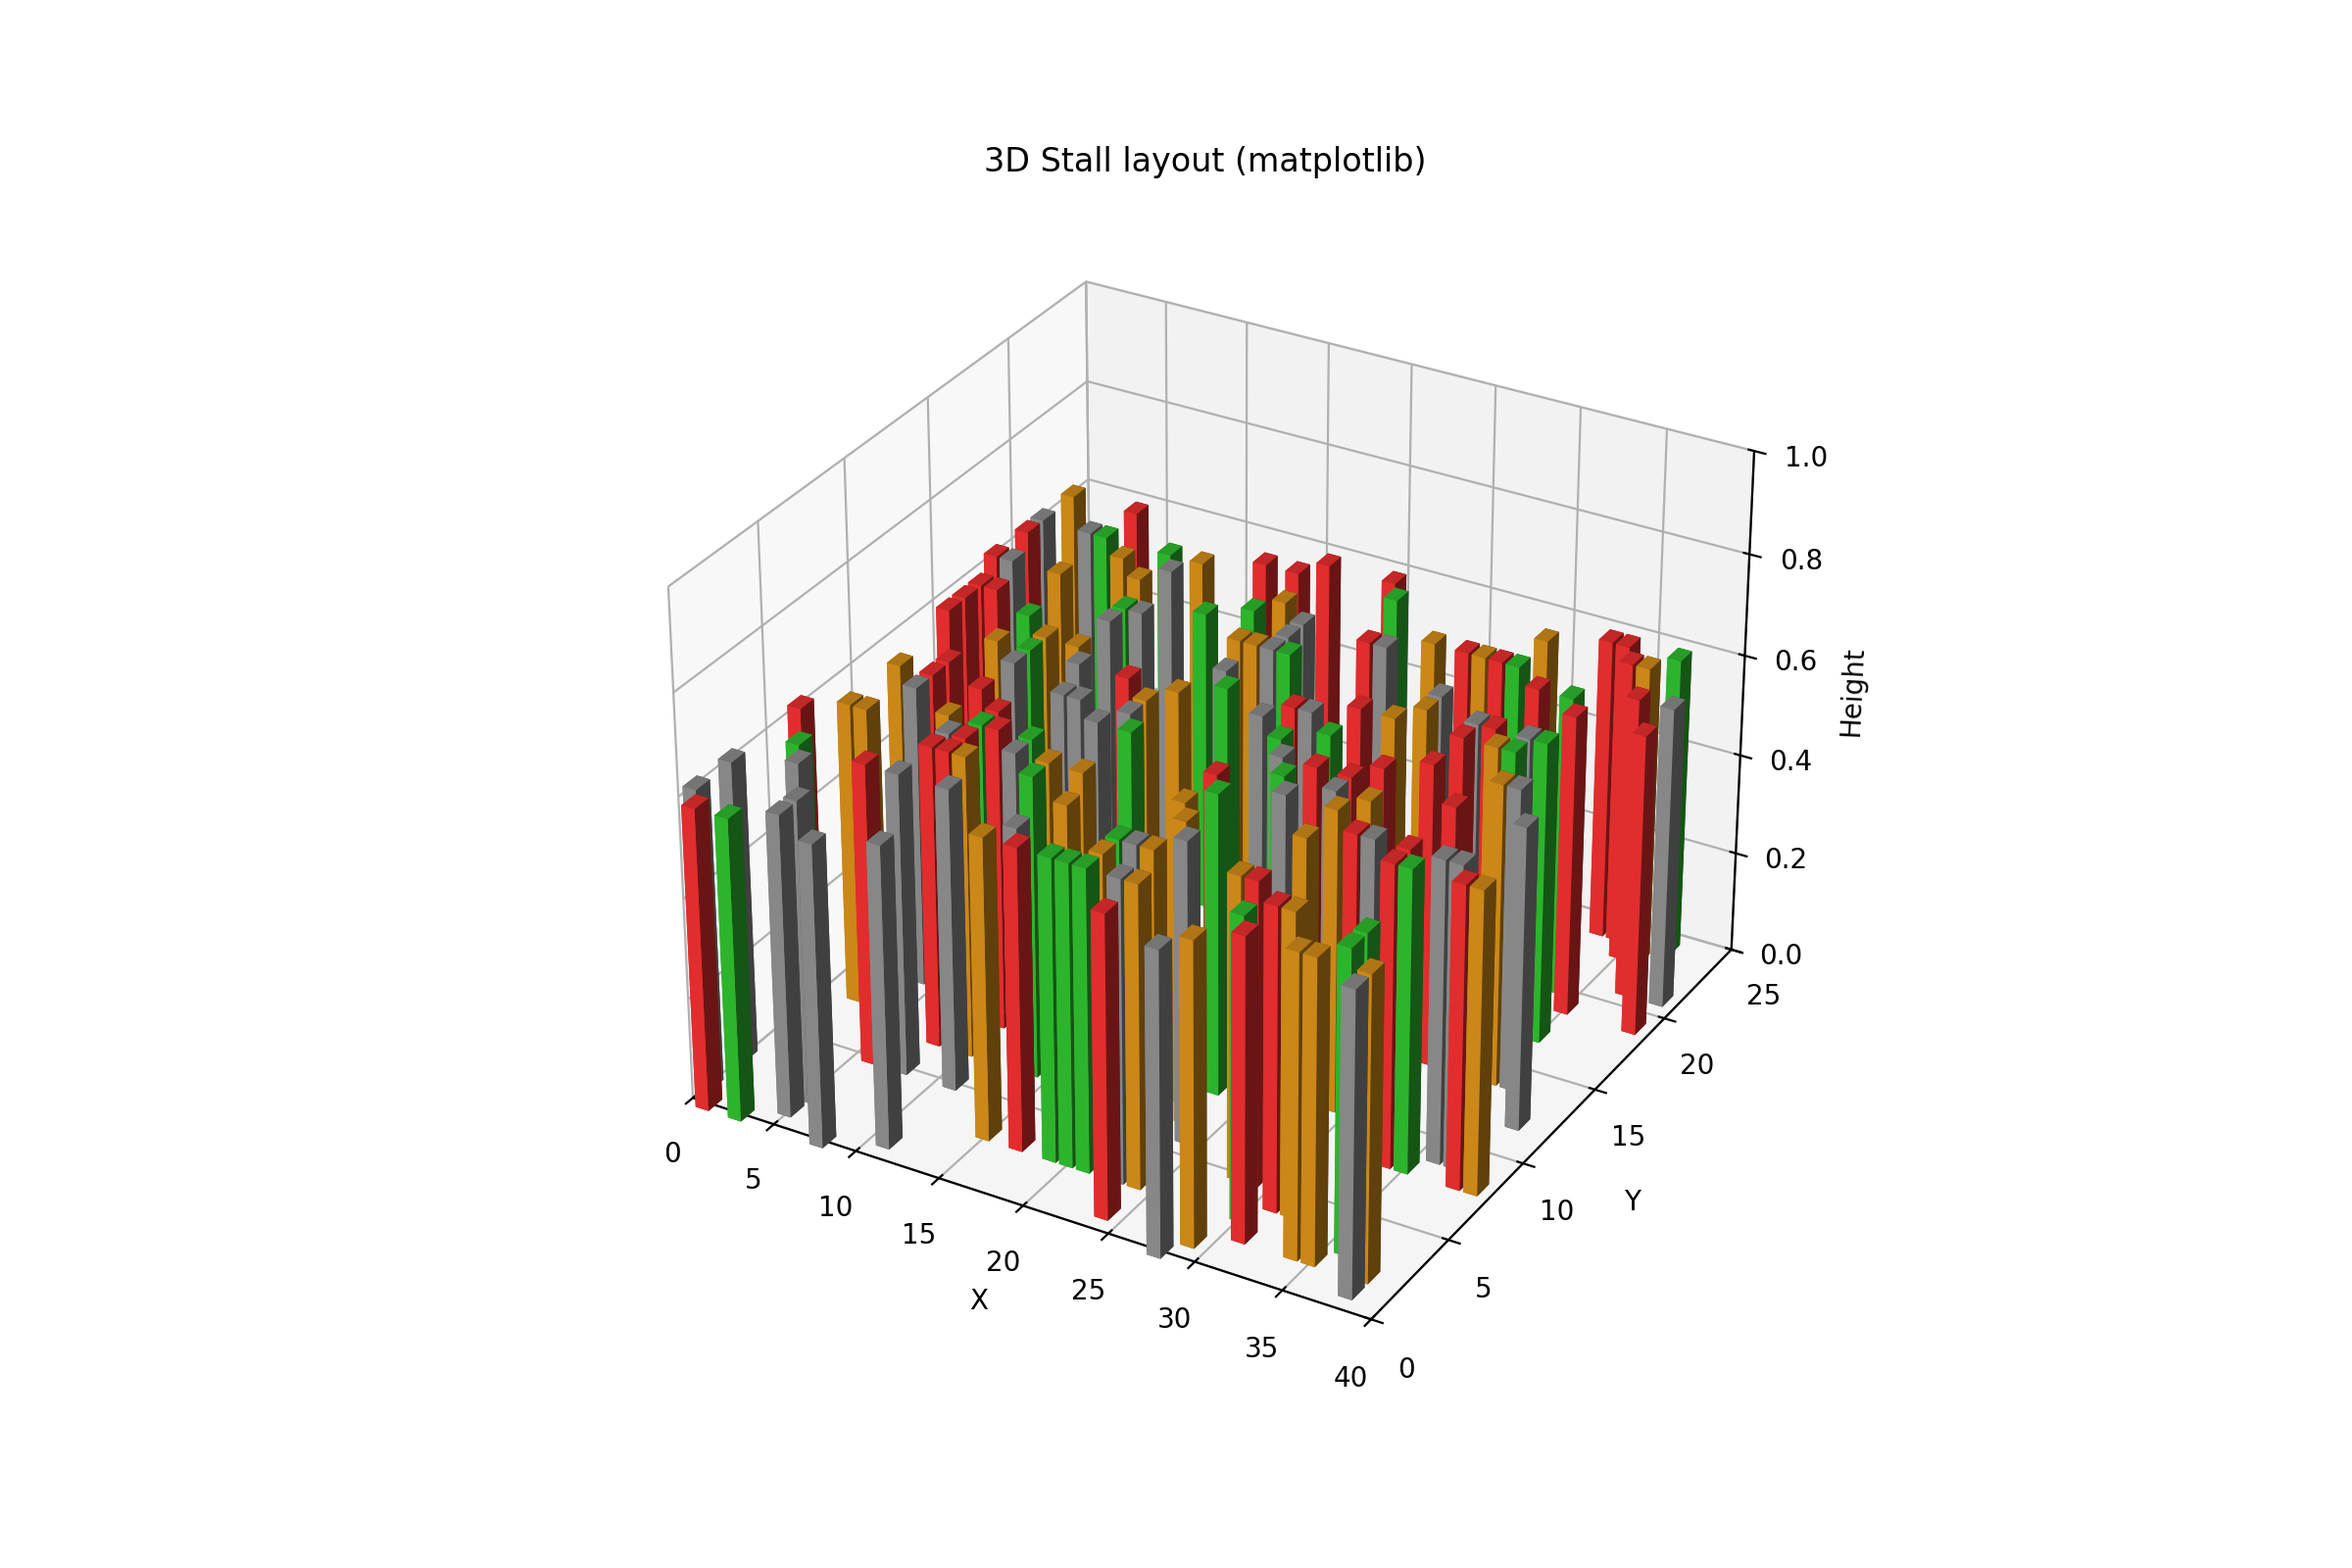
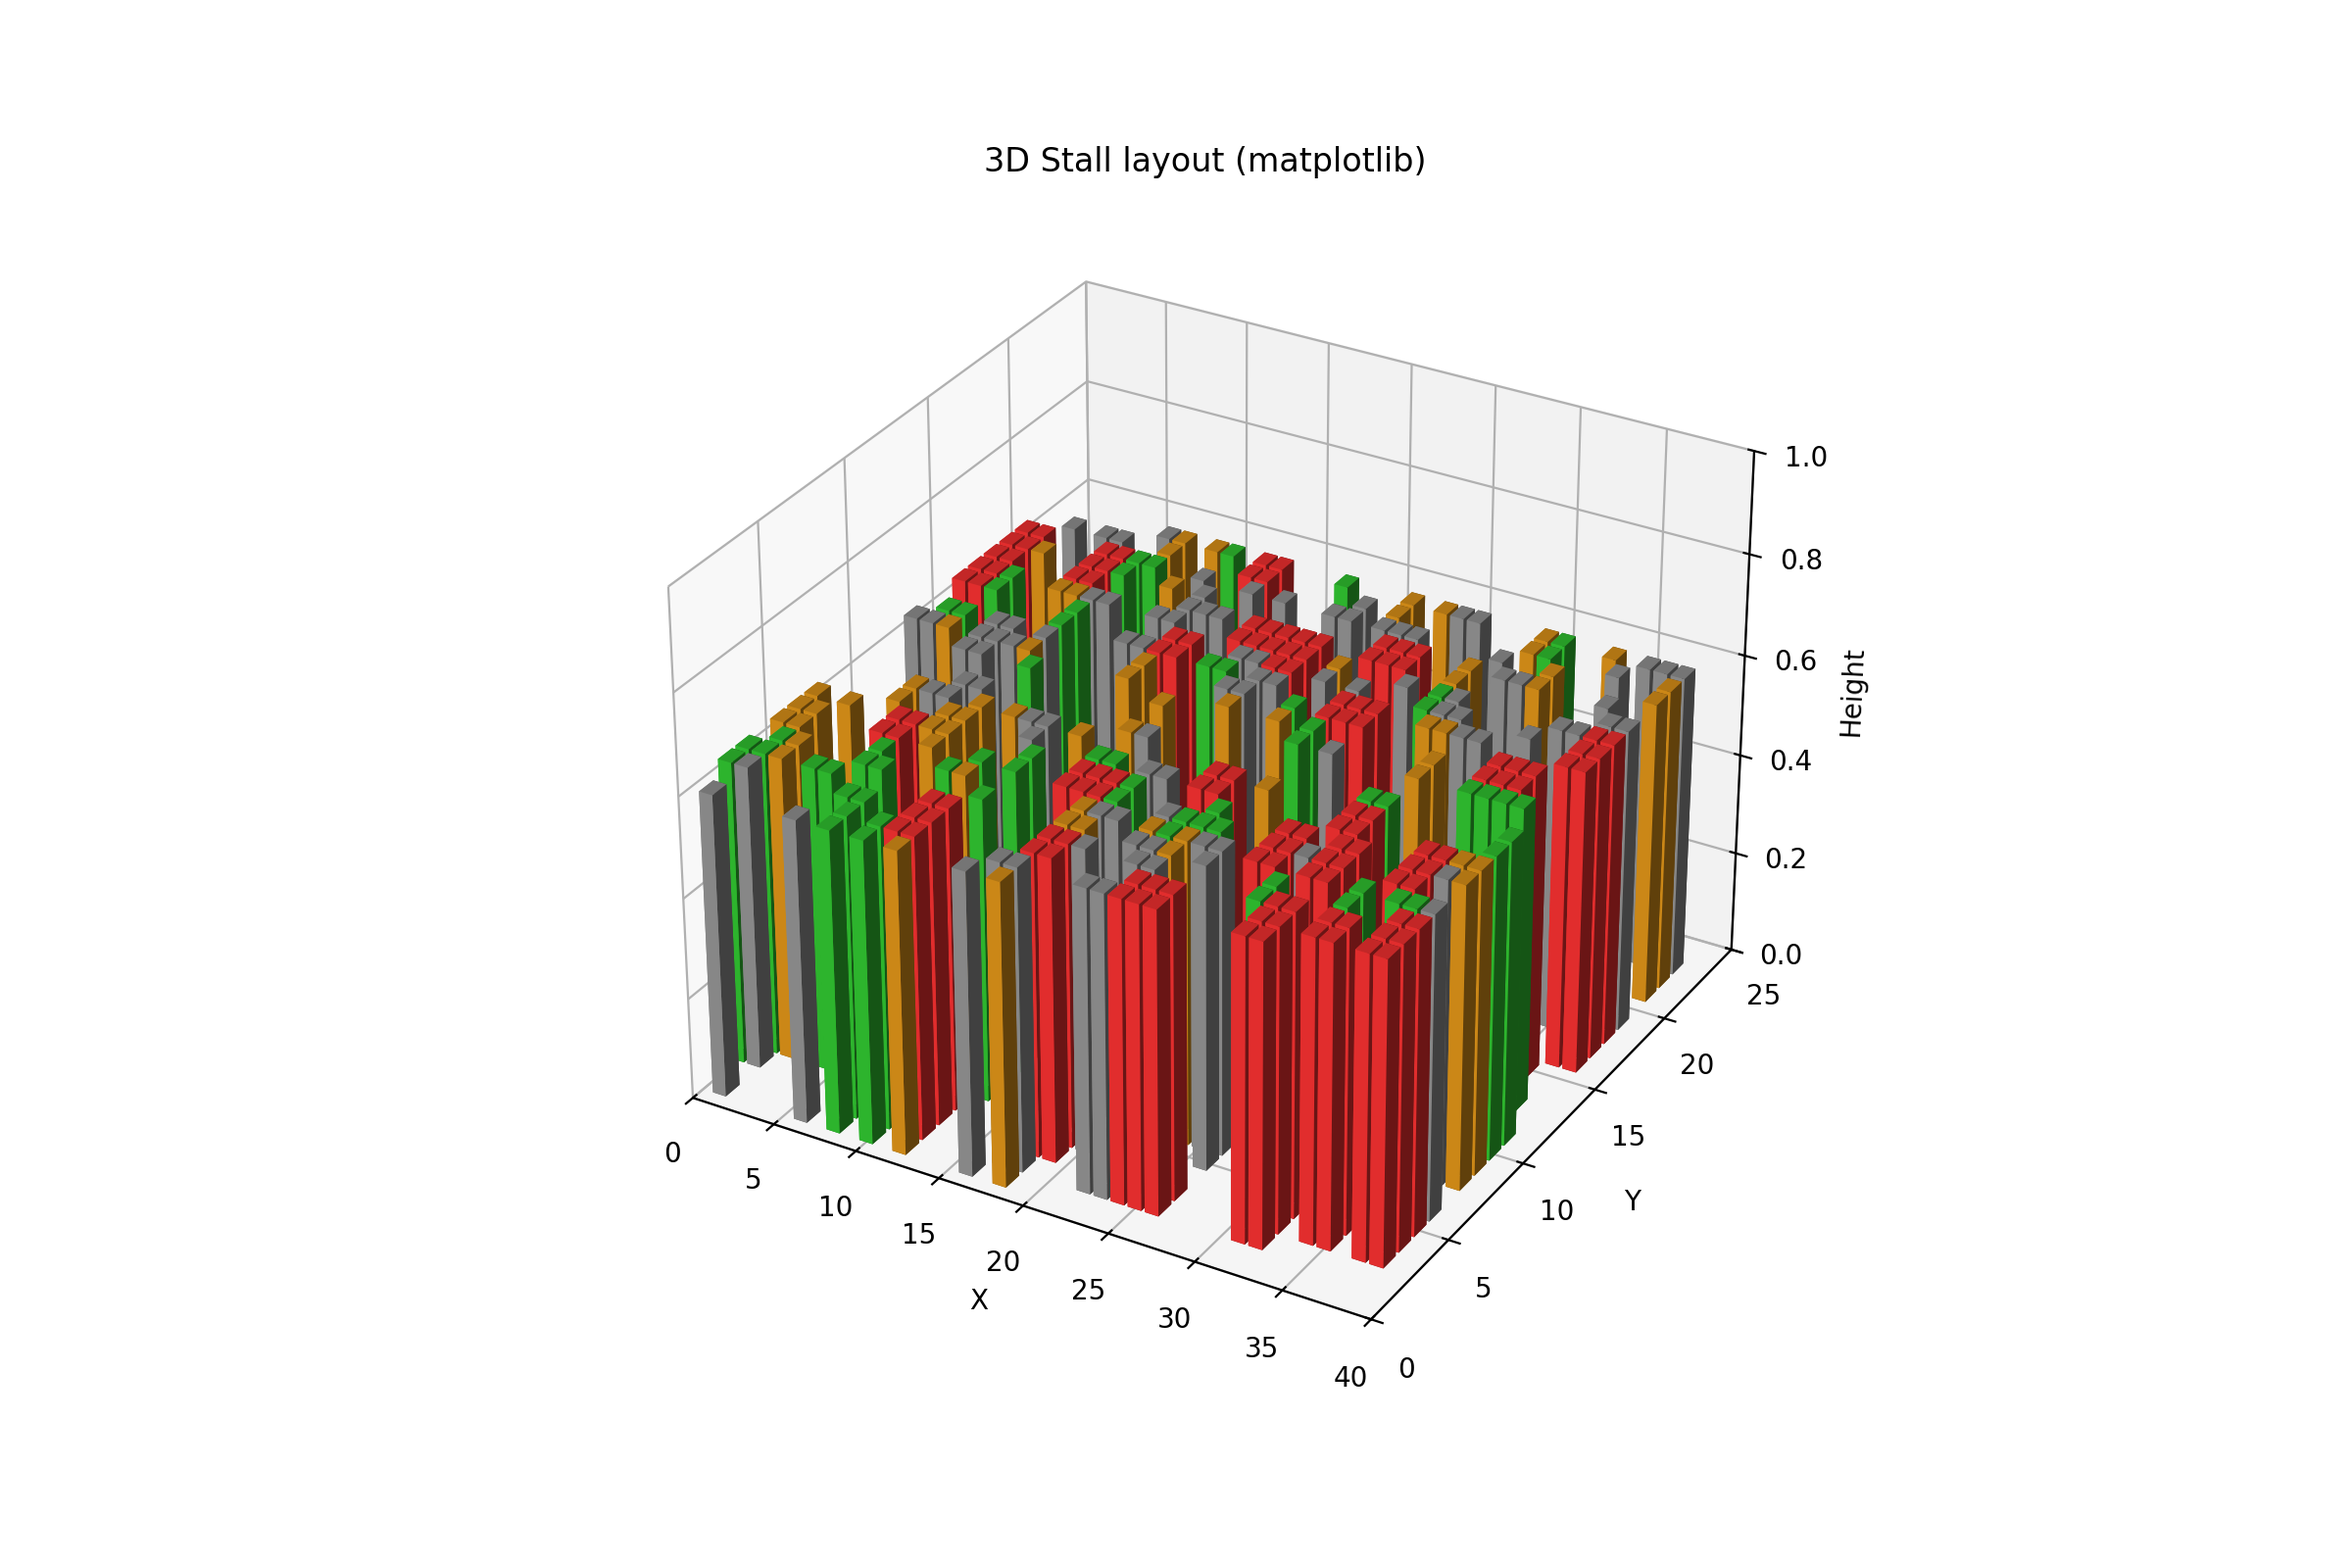
Enhance StallType initialization and add size options; update stall placement logic and visualization outputs

Changed region(s): [[0.2812, 0.3125, 0.7188, 0.8438]]

diff --git a/final project.py b/final project.py
@@ -25,16 +25,19 @@ class Grid:
                 if self.in_bounds(x+dx, y+dy)]
     
 class StallType:
-    def __init__(self, name, odor, wetness, affinity):
+    def __init__(self, name, odor, wetness, affinity, sizes=None):
         self.name = name
         self.odor = odor
         self.wetness = wetness
         self.affinity = affinity  # long-term vs short-term
+        # sizes: list of (w,h) options for the stall footprint in grid cells
+        # if None, default to single-cell
+        self.sizes = sizes or [(1, 1)]
 
-FRESH = StallType("Fresh", odor=3, wetness=3, affinity="long")
-PRODUCE = StallType("Produce", odor=1, wetness=1, affinity="both")
-COOKED = StallType("Cooked", odor=3, wetness=1, affinity="short")
-GENERAL = StallType("General", odor=0, wetness=0, affinity="both")
+FRESH = StallType("Fresh", odor=3, wetness=3, affinity="long", sizes=[(2,2),(2,3),(3,2)])
+PRODUCE = StallType("Produce", odor=1, wetness=1, affinity="both", sizes=[(1,1),(1,2),(2,1)])
+COOKED = StallType("Cooked", odor=3, wetness=1, affinity="short", sizes=[(1,1),(1,2)])
+GENERAL = StallType("General", odor=0, wetness=0, affinity="both", sizes=[(1,1),(2,1)])
 
 def efficiency_field(grid):
     # 越靠近主動線，值越高
@@ -67,9 +70,19 @@ def ca_step(grid, efficiency, exploration):
     best_indices = [i for i, s in enumerate(scores) if s == max_score]
     best_idx = random.choice(best_indices)
 
-    # place the stall
-    grid.cells[y, x] = CellType.STALL
-    grid.stall_map[y, x] = best_idx
+    # choose size option for this stall type
+    w, h = random.choice(STALL_TYPES[best_idx].sizes)
+
+    # check bounds and occupancy for footprint (x..x+w-1, y..y+h-1)
+    if x + w > grid.width or y + h > grid.height:
+        return
+    region = grid.cells[y:y+h, x:x+w]
+    if np.any(region != CellType.EMPTY):
+        return
+
+    # place the stall: mark all cells in footprint
+    grid.cells[y:y+h, x:x+w] = CellType.STALL
+    grid.stall_map[y:y+h, x:x+w] = best_idx
 
 def fitness_score(x, y, stall, efficiency, exploration):
     score = 0.0
@@ -85,9 +98,47 @@ if __name__ == "__main__":
     eff = efficiency_field(grid)
     exp = exploration_field(grid)
 
-    # Run a few CA steps for debugging
-    for i in range(200):
+    # --- Define primary/secondary paths and utilities (drains/electric) ---
+    primary_paths = []
+    secondary_paths = []
+    # primary: central horizontal aisle and outer border
+    center_row = grid.height // 2
+    for x in range(grid.width):
+        primary_paths.append((x, center_row))
+        primary_paths.append((x, 0))
+        primary_paths.append((x, grid.height - 1))
+    # secondary: vertical aisles every 6 columns
+    for x in range(3, grid.width, 6):
+        for y in range(grid.height):
+            secondary_paths.append((x, y))
+
+    # utilities
+    drain_points = [(10, 0), (30, 0)]
+    electric_points = [(0, center_row), (grid.width - 1, center_row)]
+
+    # mark aisles on grid
+    for (x, y) in primary_paths + secondary_paths:
+        if grid.in_bounds(x, y):
+            grid.cells[y, x] = CellType.AISLE
+
+    # ensure utilities are not overwritten
+    for (x, y) in drain_points + electric_points:
+        if grid.in_bounds(x, y):
+            grid.cells[y, x] = CellType.AISLE
+
+    # Run CA steps until target density reached or max attempts exceeded
+    total_cells = grid.width * grid.height
+    target_density = 0.35  # desired fraction of cells to fill with stalls (adjustable)
+    target_cells = int(total_cells * target_density)
+    placed_cells = 0
+    attempts = 0
+    max_attempts = 5000
+    while placed_cells < target_cells and attempts < max_attempts:
+        before = int((grid.cells == CellType.STALL).sum())
         ca_step(grid, eff, exp)
+        after = int((grid.cells == CellType.STALL).sum())
+        placed_cells += max(0, after - before)
+        attempts += 1
 
     # report counts
     total_cells = grid.width * grid.height
@@ -172,6 +223,41 @@ if __name__ == "__main__":
                             viewer.scene.add(data)
                         except Exception:
                             pass
+        # add path visuals (flat boxes) for primary and secondary
+        def add_path_cells(cells, col):
+            for (px, py) in cells:
+                if not grid.in_bounds(px, py):
+                    continue
+                pmesh = box_mesh_at(px, py, 0, height=0.02)
+                try:
+                    viewer.scene.add(pmesh, color=col)
+                except Exception:
+                    try:
+                        d = pmesh.to_data(); d['color'] = col; viewer.scene.add(d)
+                    except Exception:
+                        pass
+
+        add_path_cells(primary_paths, (0.05, 0.05, 0.05))
+        add_path_cells(secondary_paths, (0.5, 0.5, 0.5))
+
+        # add utility markers
+        def add_util_point(pt, col):
+            px, py = pt
+            if not grid.in_bounds(px, py):
+                return
+            umesh = box_mesh_at(px, py, 0, height=0.3)
+            try:
+                viewer.scene.add(umesh, color=col)
+            except Exception:
+                try:
+                    d = umesh.to_data(); d['color'] = col; viewer.scene.add(d)
+                except Exception:
+                    pass
+
+        for dp in drain_points:
+            add_util_point(dp, (0.2, 0.4, 0.9))
+        for ep in electric_points:
+            add_util_point(ep, (1.0, 1.0, 0.0))
         print("Opening COMPAS viewer window...")
         try:
             viewer.show()
@@ -209,6 +295,32 @@ if __name__ == "__main__":
         plt.legend(handles=patches, bbox_to_anchor=(1.05, 1), loc='upper left')
         plt.tight_layout()
         plt.savefig('outputs/stall_map_debug.png', dpi=200)
+        plt.close()
+
+        # overlay primary and secondary paths and utilities on 2D image
+        plt.figure(figsize=(10, 6))
+        plt.imshow(rgb, interpolation='nearest', origin='lower')
+        # primary paths
+        px = [p[0] for p in primary_paths if 0 <= p[1] < height]
+        py = [p[1] for p in primary_paths if 0 <= p[1] < height]
+        if px and py:
+            plt.scatter(px, py, c='black', s=2)
+        # secondary
+        sx = [p[0] for p in secondary_paths if 0 <= p[1] < height]
+        sy = [p[1] for p in secondary_paths if 0 <= p[1] < height]
+        if sx and sy:
+            plt.scatter(sx, sy, c='gray', s=1)
+        # drains and electric
+        if drain_points:
+            dxs = [d[0] for d in drain_points]; dys = [d[1] for d in drain_points]
+            plt.scatter(dxs, dys, c='blue', marker='o', s=60, label='Drains')
+        if electric_points:
+            exs = [e[0] for e in electric_points]; eys = [e[1] for e in electric_points]
+            plt.scatter(exs, eys, c='yellow', marker='s', s=60, label='Electric')
+        plt.legend(handles=patches + [], bbox_to_anchor=(1.05, 1), loc='upper left')
+        plt.title('Stall map with paths and utilities')
+        plt.tight_layout()
+        plt.savefig('outputs/stall_map_with_paths.png', dpi=200)
         plt.close()
 
         # 3D bar plot
